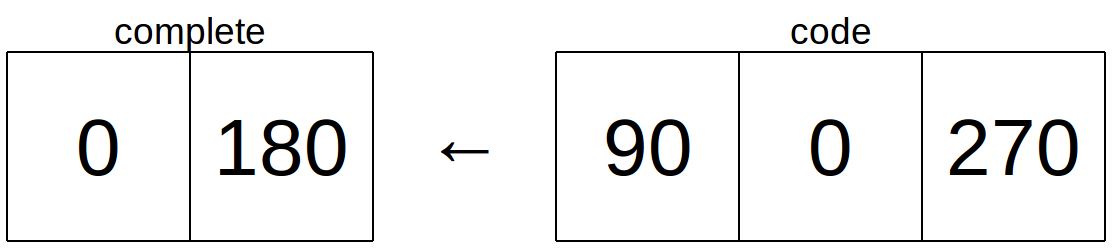
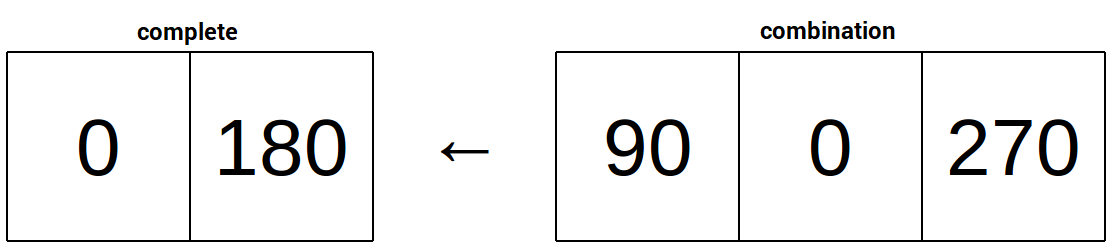
Last bit

Changed region(s): [[0.0916, 0.0847, 0.2444, 0.1976], [0.6721, 0.0847, 0.8248, 0.1976]]

diff --git a/en/step_14.md b/en/step_14.md
@@ -1,8 +1,6 @@
 ## Check the combination
 
-To check the combination, you need to create a loop which will continue until the `code` list has been emptied. For this you'll need a `while` loop.
-
-+ Create a `while` loop which will run while the number of items in the `combination` list is greater than 0.
+To check the combination, you need to create a loop which will continue until the `combination` list has been emptied. For this you'll need a `while` loop.
 
 To find the number of items in a list, you can use the `len()` function to find the length of the list, like this:
 
@@ -10,7 +8,9 @@ To find the number of items in a list, you can use the `len()` function to find 
 len(combination)
 ```
 
-+ Inside the loop, get the acceleration data from the sensor using `get_accelerometer_raw`. Then, create two variables called `x` and `y` to store the x and y data respectively.s
++ Still in the **locks** section, create a `while` loop which will run while the number of items in the `combination` list is greater than 0.
+
++ Inside the loop, get the acceleration data from the sensor using `get_accelerometer_raw`. Then, create two variables called `x` and `y` to store the x and y data respectively.
 
 ```python
 while len(combination) > 0:
@@ -21,39 +21,59 @@ while len(combination) > 0:
 
 + Create a new variable called `angle`, then convert `x` and `y` to an angle using the `get_angle` function you wrote earlier and store the result in this variable.
 
-+ Write an `if` statement to compare the angle with the first item in the `code` list.
++ Write an `if` statement to compare the angle with the first item in the `code` list and check whether they are the same.
 
 [[[generic-python-list-index]]]
 
++ If they are the same (i.e. the player has turned the Sense HAT to the correct angle), `pop` the first item from the combination list and `append` it to the complete list, like this.
+
 ```python
-if get_angle(x,y) == code[0]:
-   complete.append(code.pop(0))
-   sense.set_pixel(0,0,g)
+if get_angle(x,y) == combination[0]:
+   complete.append(combination.pop(0))
 ```
 
-- The condition `get_angle(x,y) == code[0]` uses the `get_angle` function to convert `x` and `y` to an angle. It then checks whether the angle matches the first item in `code`.
-- If the angle matches then the line `complete.append(code.pop(0))` removes (or "pops") the first item from `code` and adds it to the `complete` list.
-- The `sense.set_pixel(0,0,g)` line turns a single LED green to inform the user they got that step right.
++ We need to let the player know when they got an angle right, so use the `set_pixel` method to also set a single LED to green if the angle and the first item in the combination were equal.
 
-1. If the user gets the angle wrong then the `complete` and `code` lists reset and a red LED is shown. Add the following `else` condition to your `if` block:
+[[[rpi-sensehat-single-pixel]]]
+
+If the user gets the angle wrong then the `complete` and `combination` lists need to be reset and a red LED should be shown.
+
++ Add an `else` condition to your `if` block which does the following:
+
+1. Set the combination list to be equal to whatever is in the `complete` list plus whatever is left in the `combination` list
+1. Clear the `complete` list
+1. Display a red pixel to show the user they made a mistake
+
+--- hints ---
+--- hint ---
+You can add lists together just like you would with numbers, so the `+` operator will add the contents of one list to another.
+--- /hint ---
+
+--- hint ---
+To clear a list, simply set it equal to a blank list `[]`.
+--- /hint ---
+
+--- hint ---
+You already have the colour red defined as `r` from the lock images you created earlier, so you can reuse that when you display the red pixel.
+--- /hint ---
+
+--- hint ---
+Here is how your code should look:
 
 ```python
-if get_angle(x,y) == code[0]:
-   complete.append(code.pop(0))
-   sense.set_pixel(0,0,g)
 else:
-   code = complete + code
+   combination = complete + combination
    complete = []
    sense.set_pixel(0,0,r)
 ```
+--- /hint ---
+--- /hints ---
 
-1. Finally, you'll need to add some `sleep` commands to give the user time to rotate their Sense HAT. Using two sleep commands and turning the LED off in between will create a flashing LED that informs the user whether they've got the steps correct.
+Finally, you'll need to add some `sleep` commands to give the user time to rotate their Sense HAT.
 
-```python
-sleep(1)
-sense.set_pixel(0,0,e)
-sleep(1)
-```
++ Still inside your loop, wait for 1 second, then turn the LED off (black), then wait for another second.
 
++ Once the loop stops, the combination has been found, so display the lock picture, then wait for 2 seconds, then display the unlock picture and wait another 2 seconds to show that the combination lock has been broken.
 
 ## Testing your lock
+To test the lock, run your program and rotate the Sense HAT. You may want to temporarily comment out the code for your other locks so that you only have one lock to test.

diff --git a/en/step_13.md b/en/step_13.md
@@ -2,7 +2,7 @@
 
 Now you need to specify the combination - the sequence of angles that will successfully unlock this lock.
 
-+ In your `Locks` section, create two empty lists, one called `combination` and one called `complete`.
++ In your `Locks` section but underneath the code for your other locks, create two empty lists, one called `combination` and one called `complete`.
 
 [[[generic-python-create-list]]]
 
@@ -19,4 +19,4 @@ The second list, `complete`, will be used to store the completed steps of the co
 
 ![Item moving](images/list-move.png)
 
-When the code list is empty then the combination has been completed and the lock is unlocked.
+When the combination list is empty then the combination has been completed and the lock is unlocked.
